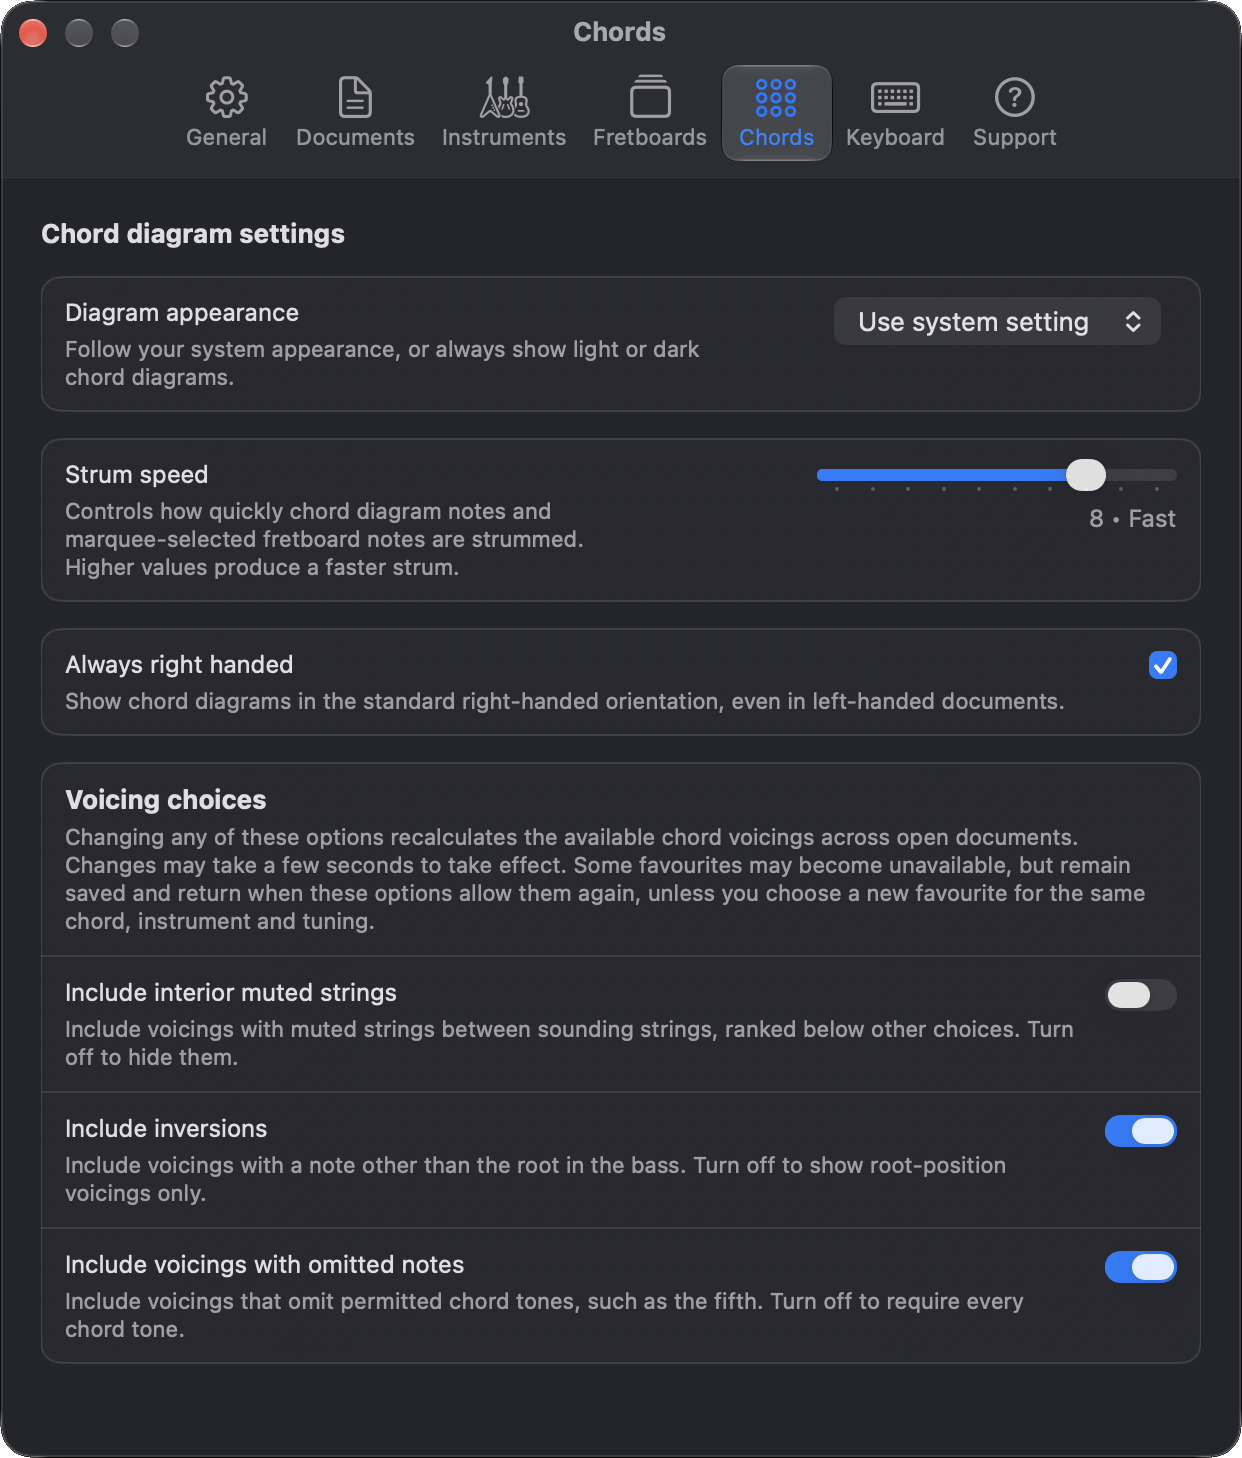
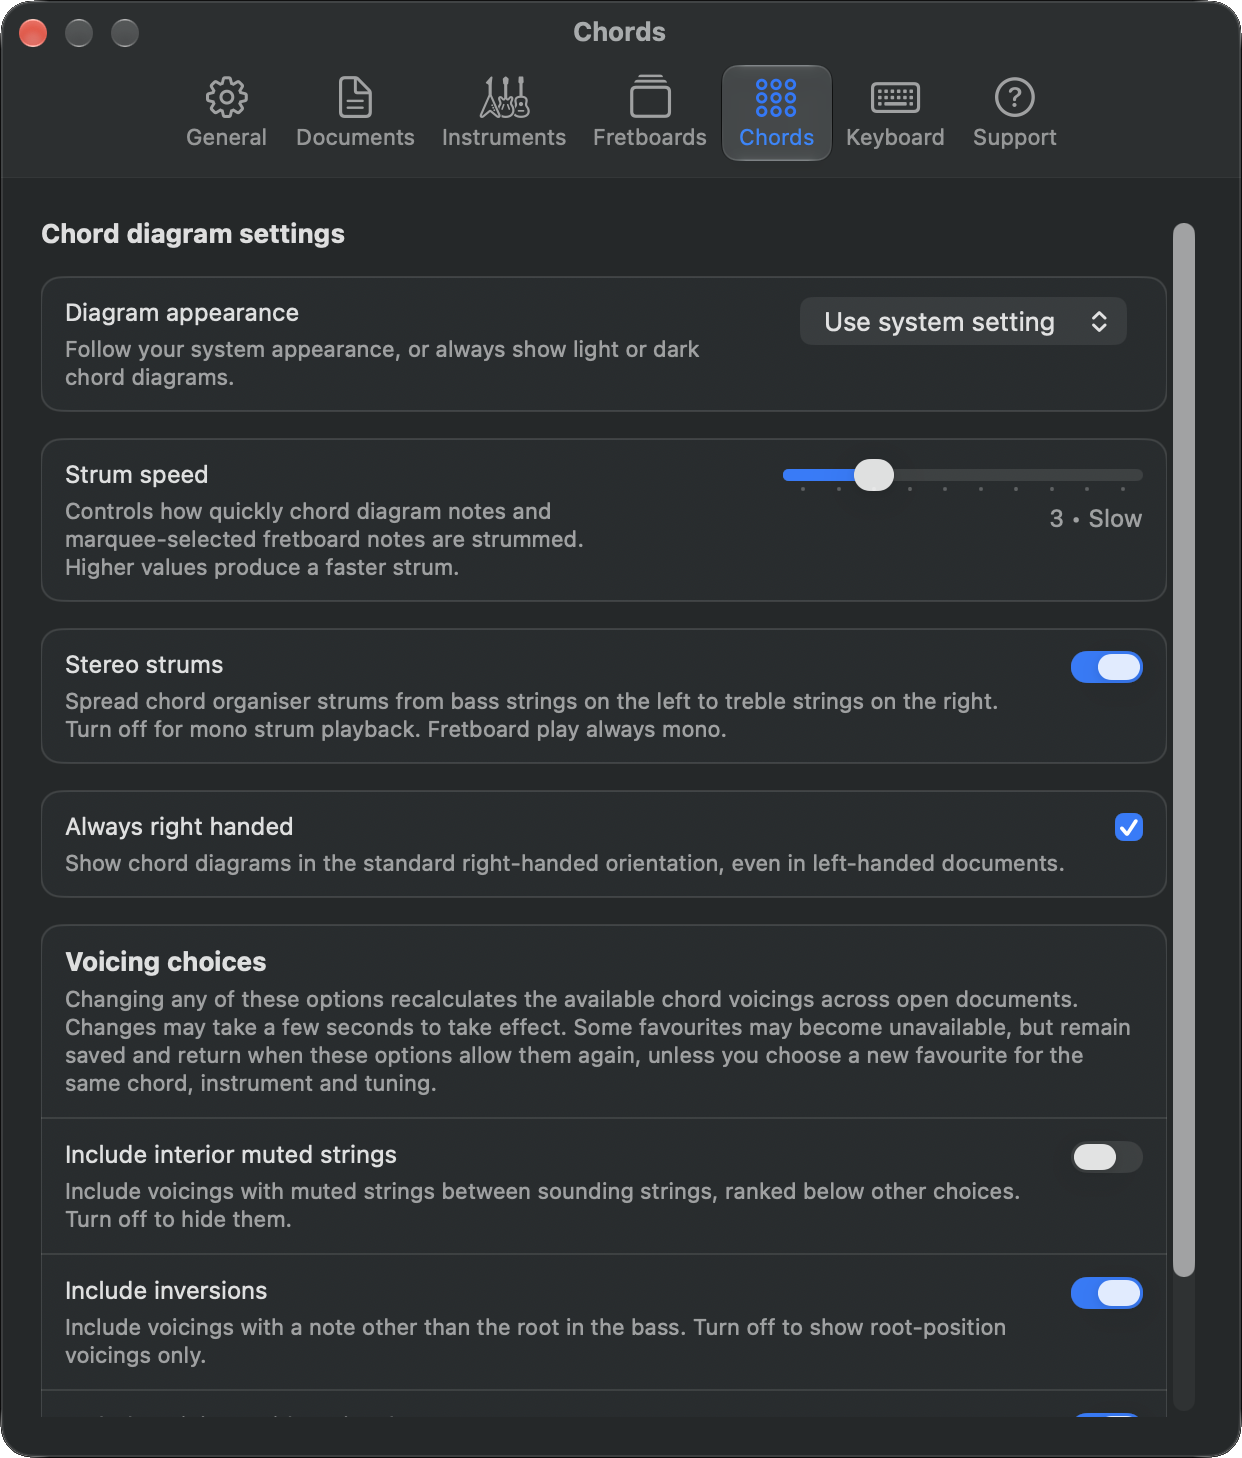
1.5.0

Changed region(s): [[0.0306, 0.1543, 0.9791, 0.9568], [0.6119, 0.3086, 0.8873, 0.3395], [0.6731, 0.216, 0.8873, 0.2469]]

diff --git a/help/frettler-settings.html b/help/frettler-settings.html
@@ -72,6 +72,13 @@
               but should you wish to have
               it re-appear, the option is here.
             </p>
+            <p>
+            Frettler uses graphics and audio resources from third parties, all of which are freely available with permissive
+            licenses. Full attribution, links to the sources and their licenses can be found in the 'Credits'.
+            </p>
+            <p>
+            The change log detailing Frettler enhancements and improvements, release by release, can be found under 'Changes'.
+            </p>
           </ul>
 
           <figure class="gallery-figure">
@@ -119,11 +126,69 @@
           <h2 style="margin-top: 0;">Instruments</h2>
           <ul>
             <p>
-              This section gives you control over the default maximum number of frets Frettler uses for
+              The characteristics of the various Frettler instrument types can be customised in this section.
+            </p>
+            <p>
+              When a note is played in a fretboard panel or a chord diagram is strummed in a chord organiser,
+              Frettler will use a sampled instrument, chosen in this settings page, for the document's instrument.
+              You can choose from 'Basic' samples which are macOS provided MIDI samples, or one of
+              the alternative real instrument samples built in to Frettler. The Basic samples will have a more consistent
+              and uniform sound, and the real samples, while sounding more authentic, may have subtle variations in 
+              attack, sustain and decay between notes.
+            </p>
+            <p>
+             When selecting a sample for an instrument, the samples best suited to the instrument family are highlighted with 
+             an asterix. You have the freedom to choose a non highlighted sample if you wish, but samples
+             from a different instrument family may not sound ideal due to the pitch range of the sample and the tuning characteristics
+             of the document's instrument.
+            </p>
+            <p>
+
+            <h2 style="margin-top: 0;">Guitar</h2>
+            <ul class="multi-col-list">
+              <li>Basic Guitar</li>
+              <li>Electric Guitar - Clean</li>
+              <li>Electric Guitar - Clean</li>
+              <li>Electric Guitar - Jazz</li>
+              <li>Electric Guitar - Hollowbody</li>
+              <li>Spanish Classical Guitar</li>
+              <li>Steel String Acoustic Guitar</li>
+            </ul>
+            </h2>
+
+            <h2 style="margin-top: 0;">Bass Guitar</h2>
+            <ul class="multi-col-list">
+              <li>Basic Bass Guitar</li>
+              <li>Electric Bass</li>
+            </ul>
+            </h2>
+
+            <h2 style="margin-top: 0;">Banjo</h2>
+            <ul class="multi-col-list">
+              <li>Basic Banjo</li>
+              <li>Banjo</li>
+            </ul>
+            </h2>
+
+            <h2 style="margin-top: 0;">Mandolin</h2>
+            <ul class="multi-col-list">
+              <li>Basic Mandolin</li>
+              <li>Mandolin</li>
+            </ul>
+            </h2>
+
+            <h2 style="margin-top: 0;">Ukulele</h2>
+            <ul class="multi-col-list">
+              <li>Basic Ukulele</li>
+              <li>Ukulele</li>
+            </ul>
+            </h2>
+            </p>
+            <p>
+              This section also gives you control over the default maximum number of frets Frettler uses for
               each instrument type. That means fretboards can better reflect the instruments you actually play,
               whether your guitar stops at 22 frets, your mandolin has a shorter fingerboard, or your ukulele has
               a more compact range.
-            </p>
             <p>
               Use the sliders to choose the fret limit that best matches each of your own instruments.
               Frettler will then use those values whenever it display a fretboard in a document of that
@@ -183,12 +248,16 @@
           <h2 style="margin-top: 0;">Chords</h2>
           <ul>
             <p>
-            Diagram appearance - by default in dark mode, the background is dark, in light mode it is light. Here you have the choice of that system default, or you can choose light or dark regadless of system light/dark mode.
+            Diagram appearance - by default in dark mode, the background is dark, in light mode it is light. Here you have the choice of that system default, or you can choose light or dark regardless of system light/dark mode.
             </p>
             <p>
               Strum speed - when you press the space key with a chord voicing diagram selected, or if you click it,
               Frettler will play that voicing, string by string
               as a strum. The speed of that strum is set here.
+            </p>
+            <p>
+              Stereo strums - when chord diagrams in a chord organiser are strummed, the audio can if you prefer,
+              sweep from left to right channels, bass strings on the left across to treble strings on the right.
             </p>
             <p>
               Always right handed - the chord voicing diagrams will by default display their strings using the

diff --git a/index.html b/index.html
@@ -180,9 +180,9 @@
 
             <ul class="list">
               <li>
-                Build visual music documents from fretboards, scales, modes,
-                chords and chord organisers, all arranged on a flexible
-                document canvas
+                Build visual music documents with multiple fretboards and chord organisers,
+                for scales, modes and chords, all arranged in a flexible
+                document format
               </li>
 
               <li>
@@ -198,7 +198,7 @@
 
               <li>
                 Listen to notes, scale patterns, modes and strummed chords with
-                pitch-perfect, instrument-specific playback as you explore the
+                realistic, instrument-specific playback as you explore the
                 fretboard
               </li>
 
@@ -212,8 +212,8 @@
               </li>
 
               <li>
-                Highlight important notes and intervals, add your own panel
-                notes, and capture teaching points, discoveries, reminders and
+                Highlight important notes and intervals, annotate each panel with
+                text notes, and capture teaching points, discoveries, reminders and
                 practice ideas
               </li>
 
@@ -225,8 +225,7 @@
 
               <li>
                 Personalise the look of your workspace with fretboard
-                backgrounds and note colour themes, making documents clearer
-                and more enjoyable to use
+                backgrounds and note colour themes
               </li>
             </ul>
 
@@ -238,20 +237,20 @@
 
           <section class="card release-summary" aria-labelledby="tutorials-title">
             <h2 id="tutorials-title">See Frettler in action</h2>
-            <p>New to Frettler? Explore the video tutorials.</p>
-            <p><a class="inline" href="/tutorials.html">Browse the tutorials →</a></p>
+            <p>New to Frettler?</p>
+            <p><a class="inline" href="/tutorials.html">Explore the video tutorials →</a></p>
           </section>
 
           <!-- Update this summary and its link when adding a new release to changelog.html. -->
           <section class="card release-summary" aria-labelledby="latest-release-title">
-            <h2 id="latest-release-title">What’s new in 1.4.0</h2>
+            <h2 id="latest-release-title">What’s new in 1.5.0</h2>
             <ul>
-              <li>Collapsible panels and keyboard navigation for easier workspace organisation.</li>
-              <li>Favourite chord voicings, inversion information and new voicing preferences.</li>
-              <li>Option-click to reverse a chord strum.</li>
-              <li>Printing fixes and improved chord voicing calculations, including banjo support.</li>
+              <li><strong>Realistic Instrument Samples</strong>
+                <br/>Frettler now contains real instrument samples for audio playback.</li>
+              <li><strong>Stereo strums</strong>
+                <br/>Audio strum of chord diagrams now supports stereo panning.</li>
             </ul>
-            <p><a class="inline" href="/changelog.html#release-1-4-0">Read the full release notes →</a></p>
+            <p><a class="inline" href="/changelog.html#release-1-5-0">Read the full release notes →</a></p>
           </section>
         </div>
       </section>

diff --git a/changelog.html b/changelog.html
@@ -33,11 +33,45 @@
 
       <!-- -------------------------------------------------- -->
 
+      <article class="card release" id="release-1-5-0" aria-labelledby="release-1-5-0-title">
+        <div class="release-heading">
+          <h2 id="release-1-5-0-title">Version 1.5.0</h2>
+          <time datetime="2026-10-25">25 October 2026</time>
+          <span class="pill">Latest release</span>
+        </div>
+        <p>
+          Huge improvements to the audio samples used and the note and strum playbacks.
+        </p>
+
+        <h3>Instrument sounds</h3>
+        <ul>
+          <li><strong>Stereo strums.</strong> Audio strum of chord diagrams now supports stereo panning, enabled in the Chords section of Settings.
+        </ul>
+        <ul>
+          <li><strong>Realistic Instrument Samples.</strong>Frettler now contains real instrument samples for audio playback, accessible from the Instruments tab in Settings:</li>
+
+        <div class="release-gallery">
+          <figure>
+              <img src="/images/change-instrument-settings.png" width="860" height="766"
+                alt="Instruments tab in settings"
+                loading="lazy" />
+            <figcaption>Instruments tab in settings</figcaption>
+          </figure>
+        </ul>
+
+
+        <h3>Improvements and fixes</h3>
+        <ul>
+          <li>Fixed undo of chord diagram modifications.</li>
+          <li>Welcome sheet iconography fixes.</li>
+          <li>Factory reset option for fretboard panels added to the fretboard panel title's context menu.</li>
+        </ul>
+      </article>
+
       <article class="card release" id="release-1-4-0" aria-labelledby="release-1-4-0-title">
         <div class="release-heading">
           <h2 id="release-1-4-0-title">Version 1.4.0</h2>
           <time datetime="2026-10-09">9 October 2026</time>
-          <span class="pill">Latest release</span>
         </div>
         <p>
           More ways to organise and navigate your workspace and favour preferred chord
@@ -72,11 +106,9 @@
 
         <div class="release-gallery">
           <figure>
-            <a href="/images/chord-favourited.png" aria-label="View full-size screenshot of a favourite chord voicing">
               <img src="/images/chord-favourited.png" width="560" height="666"
                 alt="A favourite F major voicing with A in the bass, shown as Fmaj/A with a filled heart and inversion information icon"
                 loading="lazy" />
-            </a>
             <figcaption>A favourite voicing, with its inversion shown in the title.</figcaption>
           </figure>
         </div>
